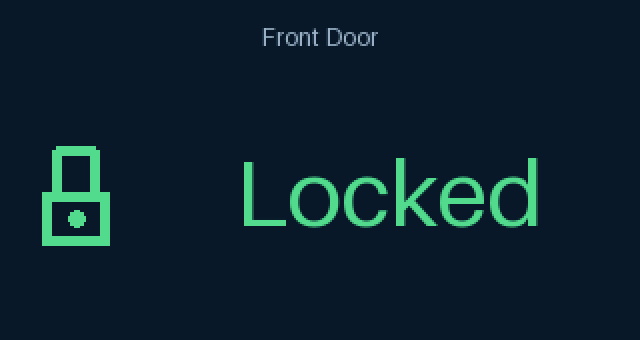
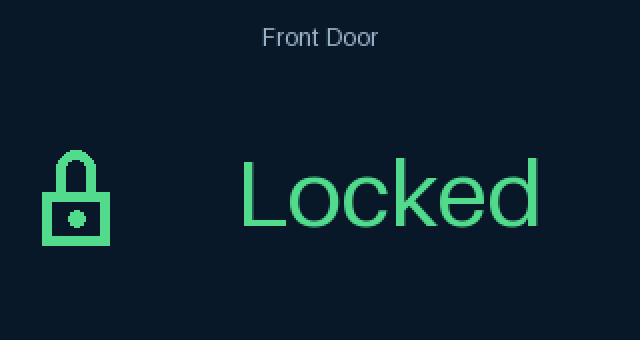
Give the padlock a round shackle
Both `lock` and `unlock` had a square-topped shackle, and the reason recorded
for it was wrong. The claim was that a curve here would have to be a stepped
semicircle -- that there was no arc primitive to draw one properly. There is:
the canvas has `rounded_rect`, which goes through Pillow exactly as `circle`
already did.

What was actually missing was a *partial* arc, and `clip` supplies that. The
shackle is now a rounded rectangle made taller than it is wide, so the corner
radius is not clamped and the top is a true semicircle, drawn under a clip that
keeps the arch and the legs and discards the rounded bottom. Two clips rather
than one, because the open shackle's legs are different lengths and a single
shape cannot be short on one side only.

The general rule in the docstring was overstated with it, and is now the line
that actually holds: part of an arc is reachable by cropping a whole shape,
while an arc that has to be *subtracted* is not, because nothing here can
erase. That is still why there is no crescent moon, and why `power` has a
closed ring where the IEC symbol breaks it -- those need the second thing, not
the first.

Checked at 56, 24 and 12 pixels, and in all three lock states. The arch
survives to 12px; below two pixels of span it is dropped rather than smudged,
and the body and keyhole carry the icon.

Changed region(s): [[0.0625, 0.4118, 0.1562, 0.5588]]

diff --git a/packages/widgets/src/tinydisplay/widgets/icon.py b/packages/widgets/src/tinydisplay/widgets/icon.py
@@ -6,12 +6,15 @@ it, recolours with the theme, costs no asset pipeline and adds no dependency,
 and a status panel needs a few dozen symbols rather than a library of them.
 
 The cost is that the set is small and everything in it is a shape the available
-primitives can make -- lines, rectangles, circles, and triangles and trapezoids
-filled by scanline.
-Anything needing a genuine arc is absent rather than approximated badly: there
-is no crescent moon and no gapped power ring, and the padlock's shackle is
-square-topped because that is the honest pixel-art form rather than a stepped
-semicircle pretending to be smooth. For a logo or a weather glyph, use
+primitives can make -- lines, rectangles, rounded rectangles, circles, and
+triangles and trapezoids filled by scanline.
+
+Part of an arc is reachable too, by drawing a whole shape under a clip: the
+padlock's shackle is a rounded rectangle tall enough to have a semicircular
+top, with its lower half clipped away. What stays out of reach is anything
+needing an arc *subtracted* rather than cropped, because nothing here can
+erase. Hence no crescent moon, and a `power` ring that is closed where the IEC
+symbol breaks it. For a logo or a weather glyph, use
 :class:`~tinydisplay.widgets.image.ImageWidget`.
 
 Every icon is drawn inside a square inscribed in the widget's bounds, so a
@@ -291,9 +294,13 @@ def _padlock(
 ) -> None:
     """Draw a padlock, with the shackle either closed or swung open on the left.
 
-    The shackle is square-topped. With no arc primitive the alternative is a
-    stepped semicircle, which at icon sizes reads as a mistake rather than as a
-    curve; a squared shackle is a deliberate pixel-art form instead.
+    The shackle is a rounded rectangle tall enough for its corner radius to be
+    a true semicircle, drawn twice under two clips: the right half down to the
+    body, the left half down to wherever that leg ends. Only the arch and the
+    legs survive; the rounded bottom is always clipped away.
+
+    Two clips rather than one because the open shackle's legs are different
+    lengths, and there is no way to shorten one side of a single shape.
     """
     flank = box.width // 5
     body = Rect(
@@ -308,11 +315,37 @@ def _padlock(
     top = box.y + box.height // 8
     inset = max(1, box.width // 8)
     left = body.x + inset
-    right = body.right - 1 - inset
-    canvas.line(left, top, right, top, color, thickness=thickness)
-    canvas.line(right, top, right, body.y, color, thickness=thickness)
-    open_to = top + (body.y - top) // 2 if shackle_open else body.y
-    canvas.line(left, top, left, open_to, color, thickness=thickness)
+    right = body.right - inset
+    span = right - left
+    # Below two pixels across there is no arch to draw, only a smudge; the body
+    # and keyhole above still carry the icon at that size.
+    min_span = 2
+    if span < min_span or body.y <= top:
+        return
+
+    # Taller than it is wide, so `rounded_rect` does not clamp the radius and
+    # the top is a genuine semicircle rather than a flattened one.
+    height = (body.y - top) + span
+
+    def arc(region: Rect) -> None:
+        if region.is_empty:
+            return
+        with canvas.clip(region):
+            canvas.rounded_rect(
+                left,
+                top,
+                span,
+                height,
+                color,
+                radius=span // 2,
+                fill=False,
+                thickness=thickness,
+            )
+
+    middle = left + span // 2
+    arc(Rect.from_bounds(middle, top, right, body.y))
+    open_to = top + (body.y - top) * 2 // 3 if shackle_open else body.y
+    arc(Rect.from_bounds(left, top, middle, open_to))
 
 
 def _draw_lock(canvas: Canvas, box: Rect, color: Color, thickness: int) -> None:

diff --git a/packages/widgets/README.md b/packages/widgets/README.md
@@ -91,9 +91,9 @@ the dashboard and would otherwise produce a silently wrong panel.
 ## Icons are drawn, not loaded
 
 The icon set is small and every symbol is a shape the canvas primitives can
-make — lines, rectangles, circles, and triangles and trapezoids filled by
-scanline. Drawn icons scale to their box, recolour with the theme, and need no
-asset pipeline.
+make — lines, rectangles, rounded rectangles, circles, and triangles and
+trapezoids filled by scanline. Drawn icons scale to their box, recolour with
+the theme, and need no asset pipeline.
 
 | Group | Symbols |
 | --- | --- |
@@ -102,8 +102,10 @@ asset pipeline.
 | Sensors and weather | `thermometer` `droplet` `sun` `cloud` `wind` `fan` `flame` |
 | Status and connectivity | `bolt` `battery` `power` `wifi` `signal` `clock` `bell` |
 
-Anything requiring a genuine arc is absent rather than approximated badly: no
-crescent moon, no gapped power ring, and a square-topped padlock shackle. For a
+Part of an arc is reachable by drawing a whole shape under a clip — that is how
+the padlock gets a semicircular shackle. What is out of reach is an arc that has
+to be *subtracted* rather than cropped, because nothing here can erase: hence no
+crescent moon, and a `power` ring closed where the IEC symbol breaks it. For a
 logo or a weather glyph, use `ImageWidget`.
 
 ## Not here
